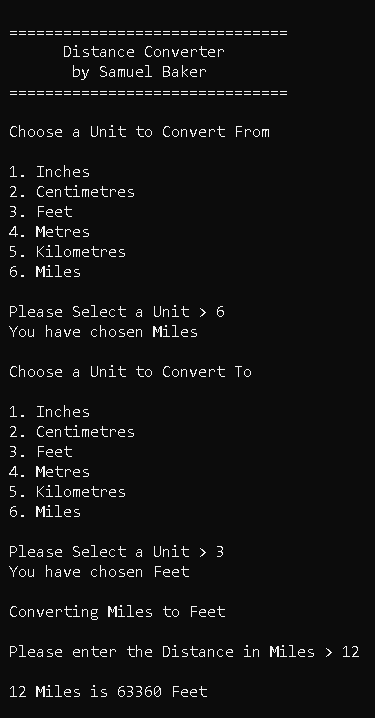
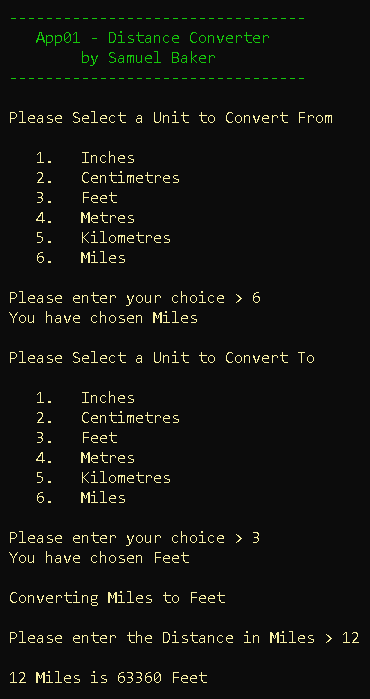
App01 Screenshots

diff --git a/ConsoleAppProject/App02/BMICalculator.cs b/ConsoleAppProject/App02/BMICalculator.cs
@@ -13,7 +13,7 @@ namespace ConsoleAppProject.App02
     /// </author>
     public class BMICalculator
     {
-        public const double BMI_UNDERWEIGHT = 18.49;
+        public const double BMI_UNDERWEIGHT = 18.5;
         public const double BMI_NORMAL = 18.5;
         public const int BMI_OVERWEIGHT = 25;
         public const int BMI_OBESE_I = 30;
@@ -22,8 +22,6 @@ namespace ConsoleAppProject.App02
 
         private double userHeight;
         private double userWeight;
-        private double weight703;
-        private double heightSquared;
 
         private UnitChoices unitChoice;
         private BMICategories Category;
@@ -37,6 +35,8 @@ namespace ConsoleAppProject.App02
         public void Run()
         {
             ConsoleHelper.OutputHeading("App02 - BMI Calculator");
+
+            OutputIntroduction();
 
             Console.WriteLine();
             unitChoice = SelectUnit(" Please Choose whether to use Imperial or Metric Units");
@@ -61,6 +61,35 @@ namespace ConsoleAppProject.App02
             CalculateBMI();
 
             OutputBMI();
+        }
+
+        /// <summary>
+        /// Outputs an introduction to the application
+        /// </summary>
+        private static void OutputIntroduction()
+        {
+            Console.WriteLine(" This Application is designed to calculate your BMI in " +
+                "accordance with the World Health Organisation figures for BMI, as below");
+            Console.WriteLine();
+            Console.WriteLine($" Underweight = <{BMI_UNDERWEIGHT}");
+            Console.WriteLine($" Normal = >{BMI_NORMAL}");
+            Console.WriteLine($" Overweight = >{BMI_OVERWEIGHT}");
+            Console.WriteLine($" Obese Class I = >{BMI_OBESE_I}");
+            Console.WriteLine($" Obese Class II = >{BMI_OBESE_II}");
+            Console.WriteLine($" Obese Class III = >{BMI_OBESE_III}");
+            Console.WriteLine();
+            Console.WriteLine(" All you need to use the Application is your height and weight" +
+                "which you can input using Imperial or Metric Units");
+            Console.WriteLine();
+            Console.WriteLine(" Imperial Units are:");
+            Console.WriteLine();
+            Console.WriteLine(" Height: Feet and Inches");
+            Console.WriteLine(" Weight: Stones and Pounds");
+            Console.WriteLine();
+            Console.WriteLine(" Metric Units are:");
+            Console.WriteLine();
+            Console.WriteLine(" Height: Metres and Centimetres");
+            Console.WriteLine(" Weight: Kilograms and Grams");
         }
 
         /// <summary>
@@ -104,15 +133,12 @@ namespace ConsoleAppProject.App02
         {
             if (unitChoice.Equals(UnitChoices.Imperial))
             {
-                heightSquared = userHeight * userHeight;
-                weight703 = userWeight * 703;
-                BMI = weight703 / heightSquared;
+                BMI = (userWeight * 703) / (userHeight * userHeight);
             }
 
             if (unitChoice.Equals(UnitChoices.Metric))
             {
-                heightSquared = userHeight * userHeight;
-                BMI = userWeight / heightSquared;
+                BMI = userWeight / (userHeight * userHeight);
             }
 
             CategoriseBMI();
@@ -123,7 +149,7 @@ namespace ConsoleAppProject.App02
         /// </summary>
         private void CategoriseBMI()
         {
-            if (BMI <= BMI_UNDERWEIGHT)
+            if (BMI < BMI_UNDERWEIGHT)
             {
                 Category = BMICategories.Underweight;
             }

diff --git a/ConsoleAppProject/App01/DistanceConverter.cs b/ConsoleAppProject/App01/DistanceConverter.cs
@@ -9,7 +9,7 @@ namespace ConsoleAppProject.App01
     /// output the equivalent distance in another unit (toUnit)
     /// </summary>
     /// <author>
-    /// Samuel Baker 21/02/2022
+    /// Samuel Baker 26/02/2022
     /// </author>
     public class DistanceConverter
     {
@@ -45,7 +45,6 @@ namespace ConsoleAppProject.App01
         {
             ConsoleHelper.OutputHeading("App01 - Distance Converter");
 
-            Console.WriteLine();
             fromUnit = SelectUnit(" Please Select a Unit to Convert From");
             Console.WriteLine($" You have chosen {fromUnit}");
 

diff --git a/ConsoleAppProject/Helpers/ConsoleHelper.cs b/ConsoleAppProject/Helpers/ConsoleHelper.cs
@@ -13,6 +13,9 @@ namespace ConsoleAppProject.Helpers
     /// <author>
     /// Derek Peacock 2021
     /// </author>
+    /// <modified>
+    /// Samuel Baker 26/02/2022
+    /// </modified>
     /// </summary>
     public static class ConsoleHelper
     {
@@ -74,7 +77,7 @@ namespace ConsoleAppProject.Helpers
                 catch (Exception)
                 {
                     isValid = false;
-                    Console.WriteLine(" INVALID NUMBER!");
+                    Console.WriteLine(" Number is Invalid - Try Again");
                 }
 
             } while (!isValid);
